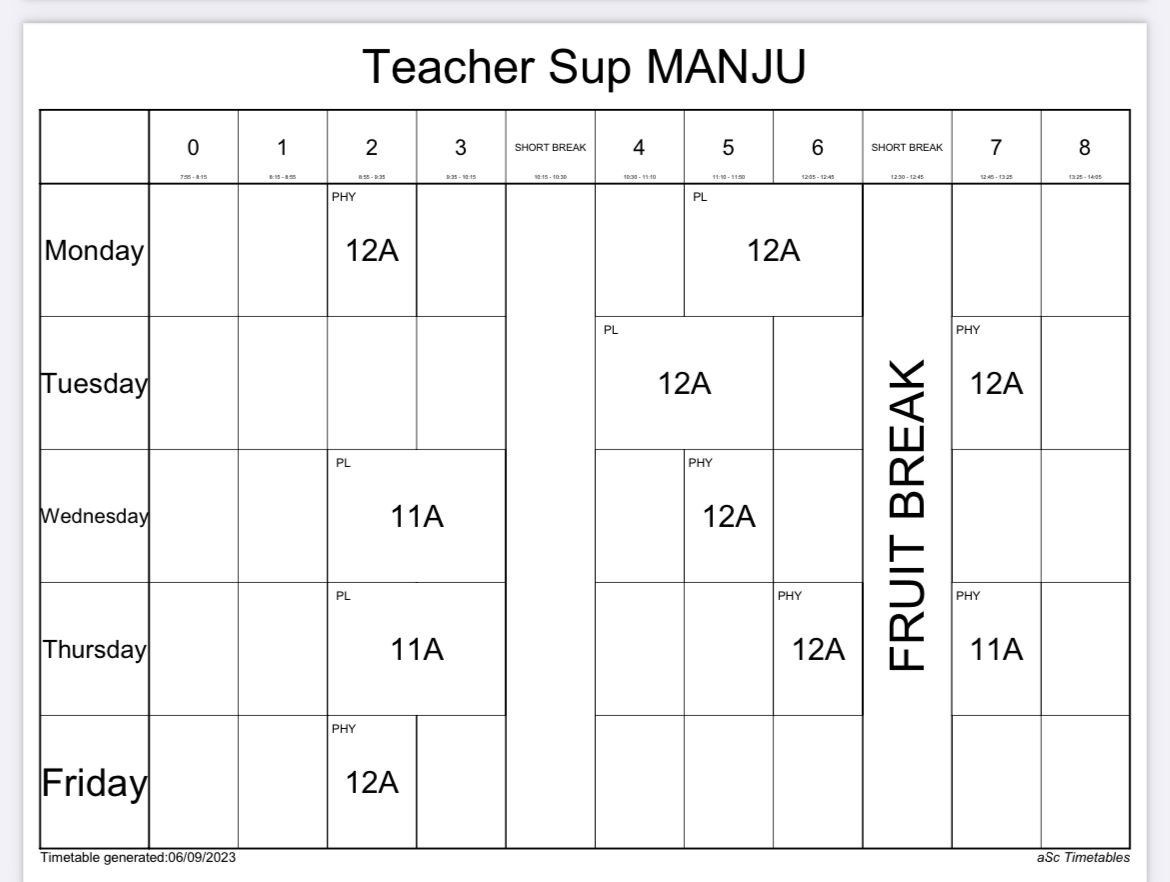
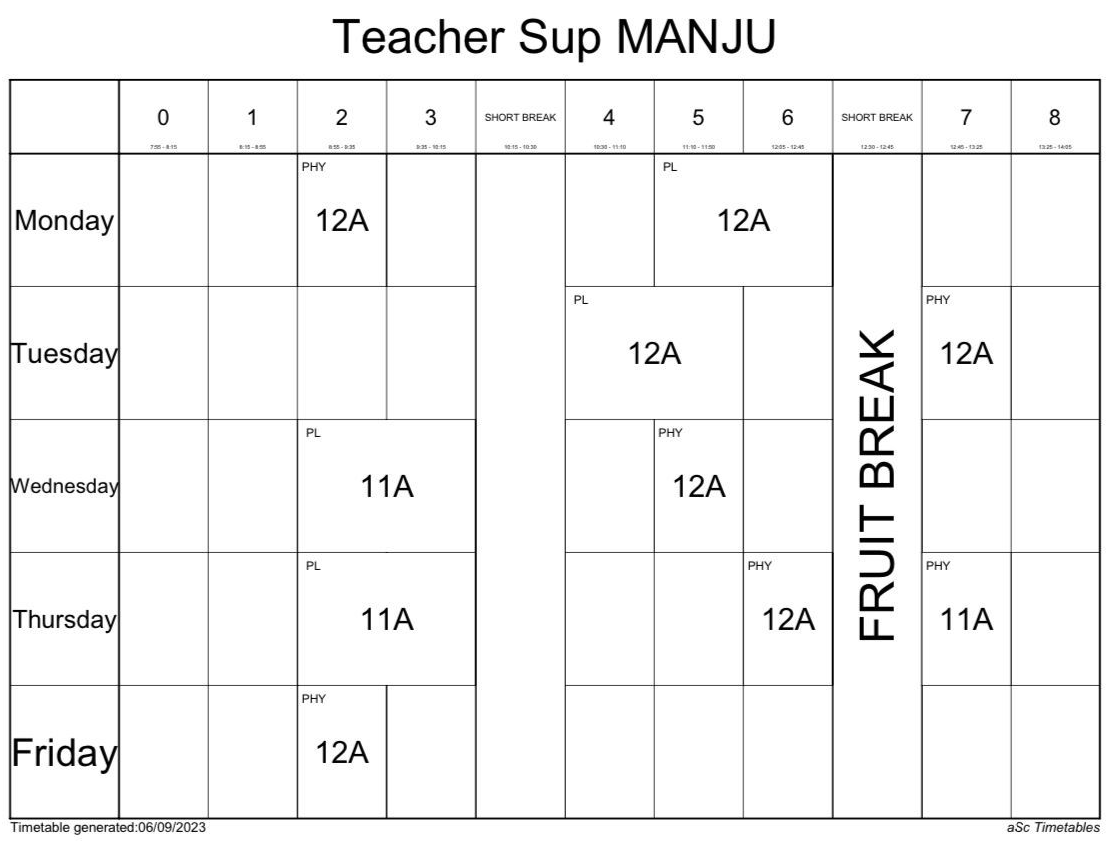
Add files via upload

diff --git a/index.js b/index.js
@@ -48,7 +48,6 @@ onAuthStateChanged(auth, (user) => {
 //-------------
 userNameBox.onclick = () => {
   logoutBox.style.display = "flex";
-  console.log("username clicked!");
 };
 logoutBox.onclick = (e) => {
   if (e.target != logoutBtn) {
@@ -58,11 +57,17 @@ logoutBox.onclick = (e) => {
 logoutBtn.onclick = () => {
   signOut(auth)
     .then(() => {
-      alert("logged out");
+      alert("you're logged out");
     })
     .catch((error) => {
       alert(error);
     });
 };
-
+window.onresize = changeSize;
+function changeSize() {
+  timeTableBoxImg.style.height = `${
+    window.innerHeight - 5 - topBox.getBoundingClientRect().height
+  }px`;
+}
+changeSize();
 //------------

diff --git a/index.css b/index.css
@@ -79,5 +79,4 @@ body {
 .timeTableBox img {
   object-fit: contain;
   width: 100%;
-  height: 100%;
 }
